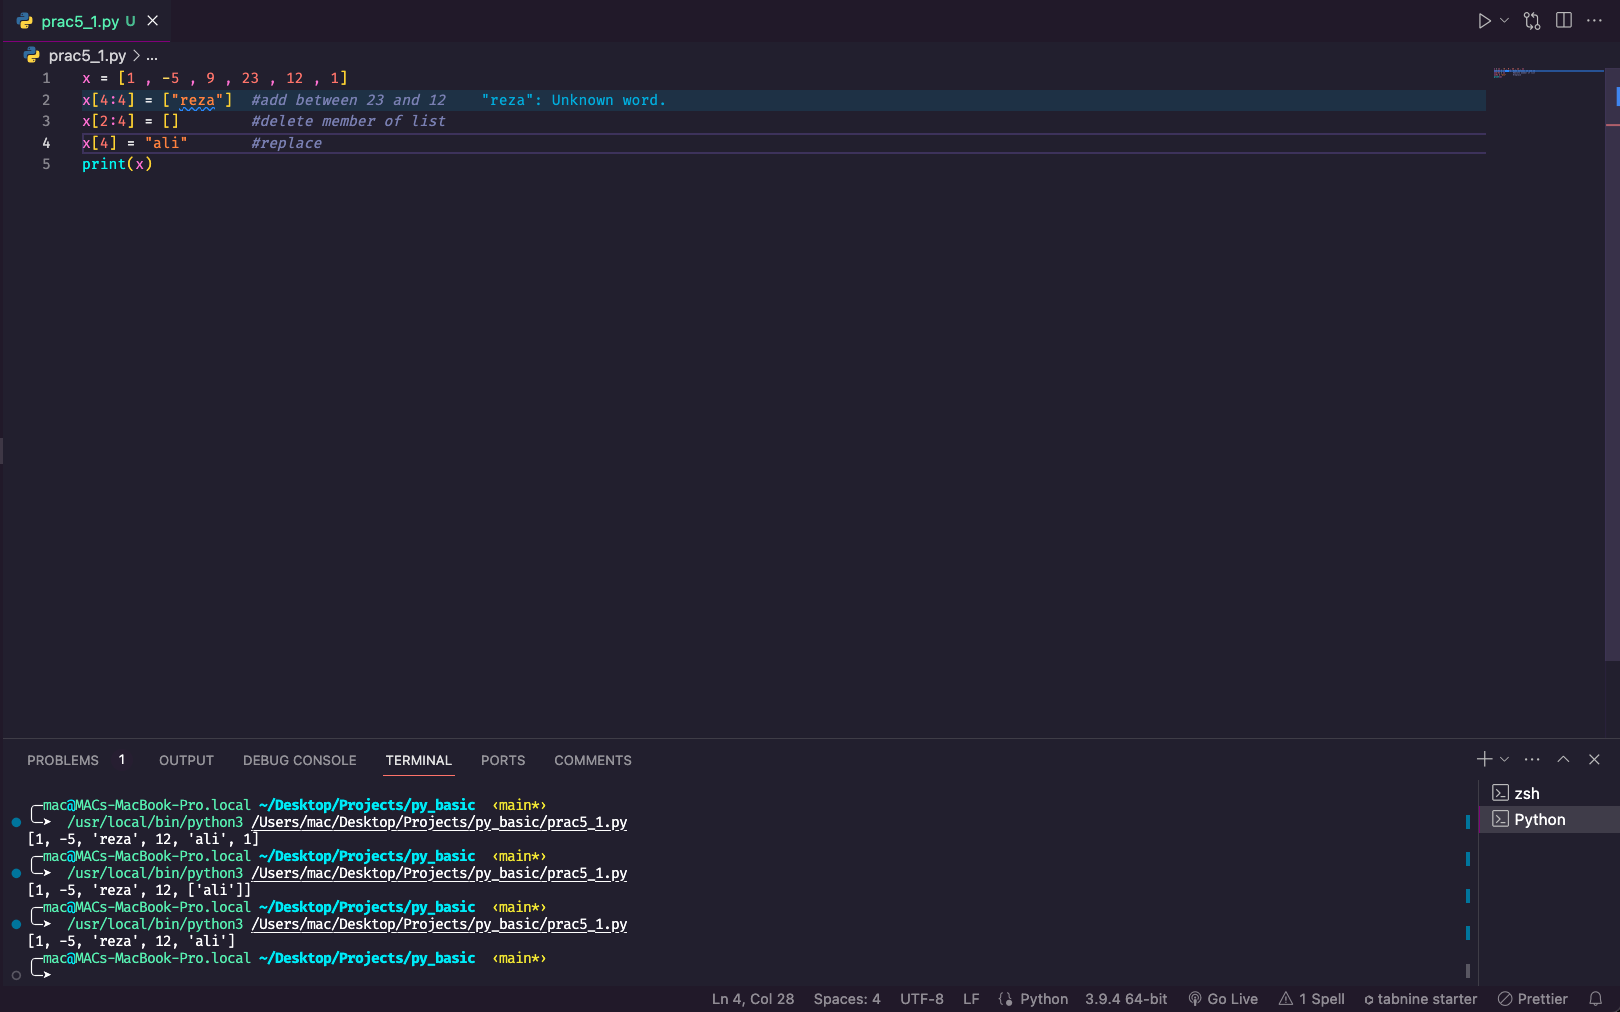
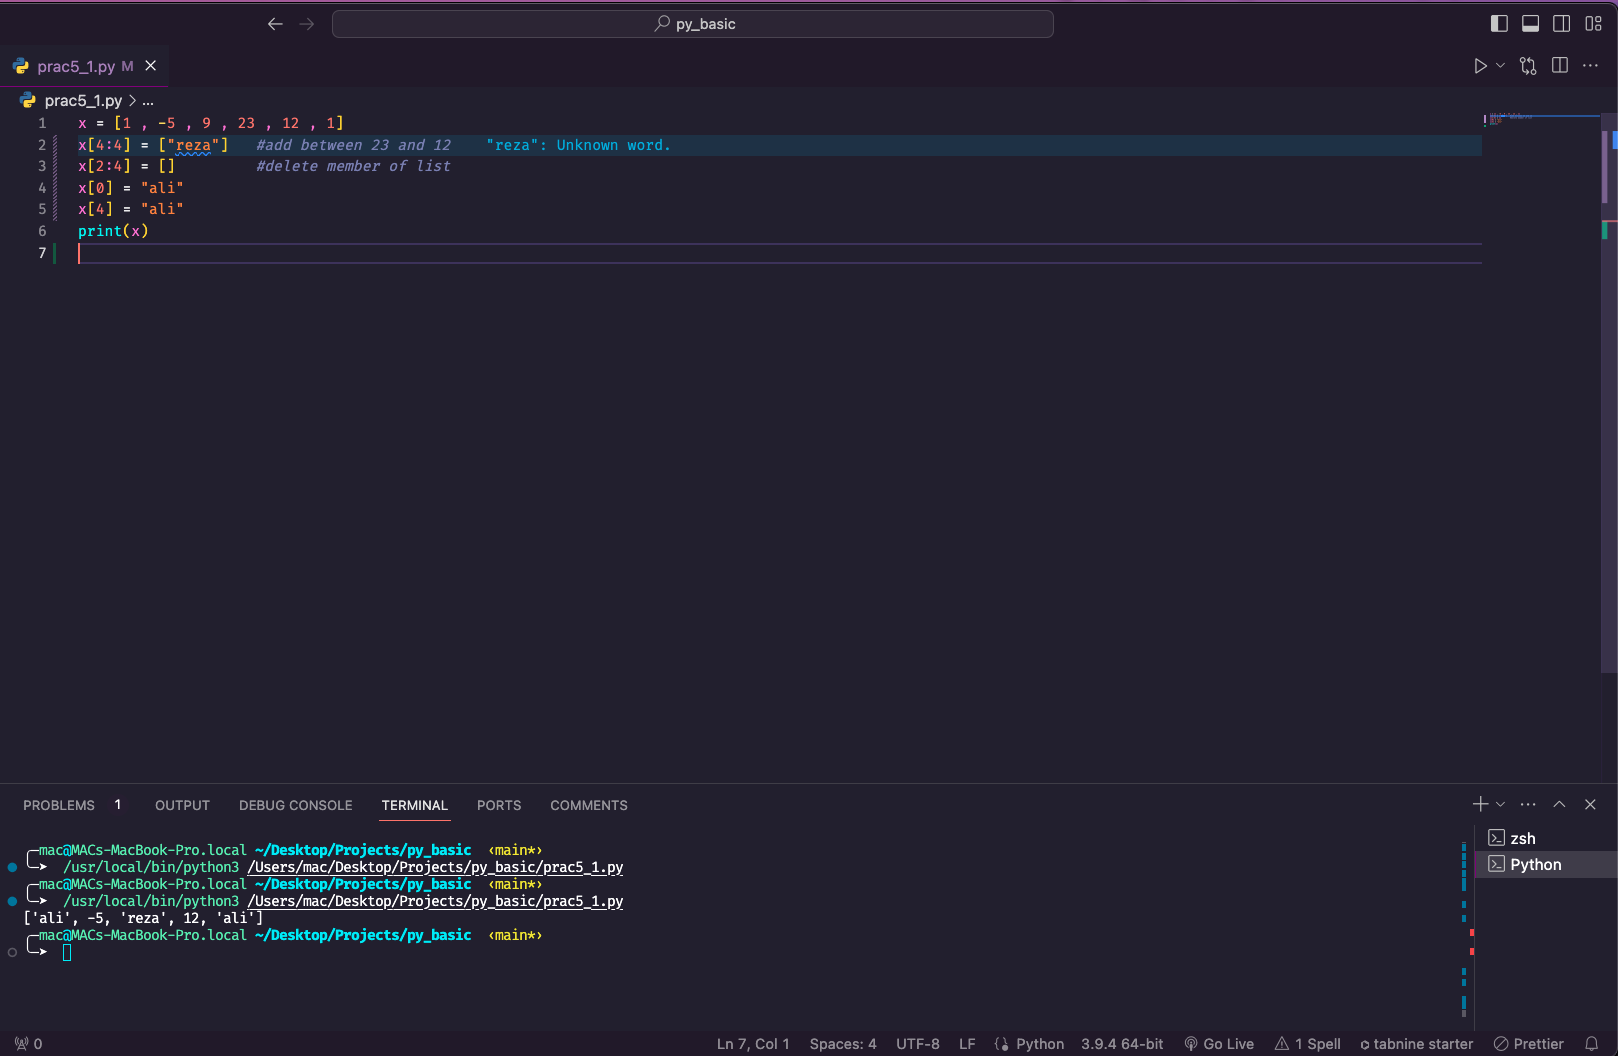
Working with lists

diff --git a/prac5_1.py b/prac5_1.py
@@ -1,6 +1,6 @@
 x = [1 , -5 , 9 , 23 , 12 , 1]
-x[4:4] = ["reza"]   #add between 23 and 12
-x[2:4] = []         #delete member of list
-x[0] = "ali"
-x[4] = "ali"
-print(x)
+x[4:4] = ["reza"]       #add between 23 and 12
+x[2:4] = []             #delete member of list
+x[0] = "ali"            #replace
+x[4] = "ali"            #replace
+print("The new list = " , x)
